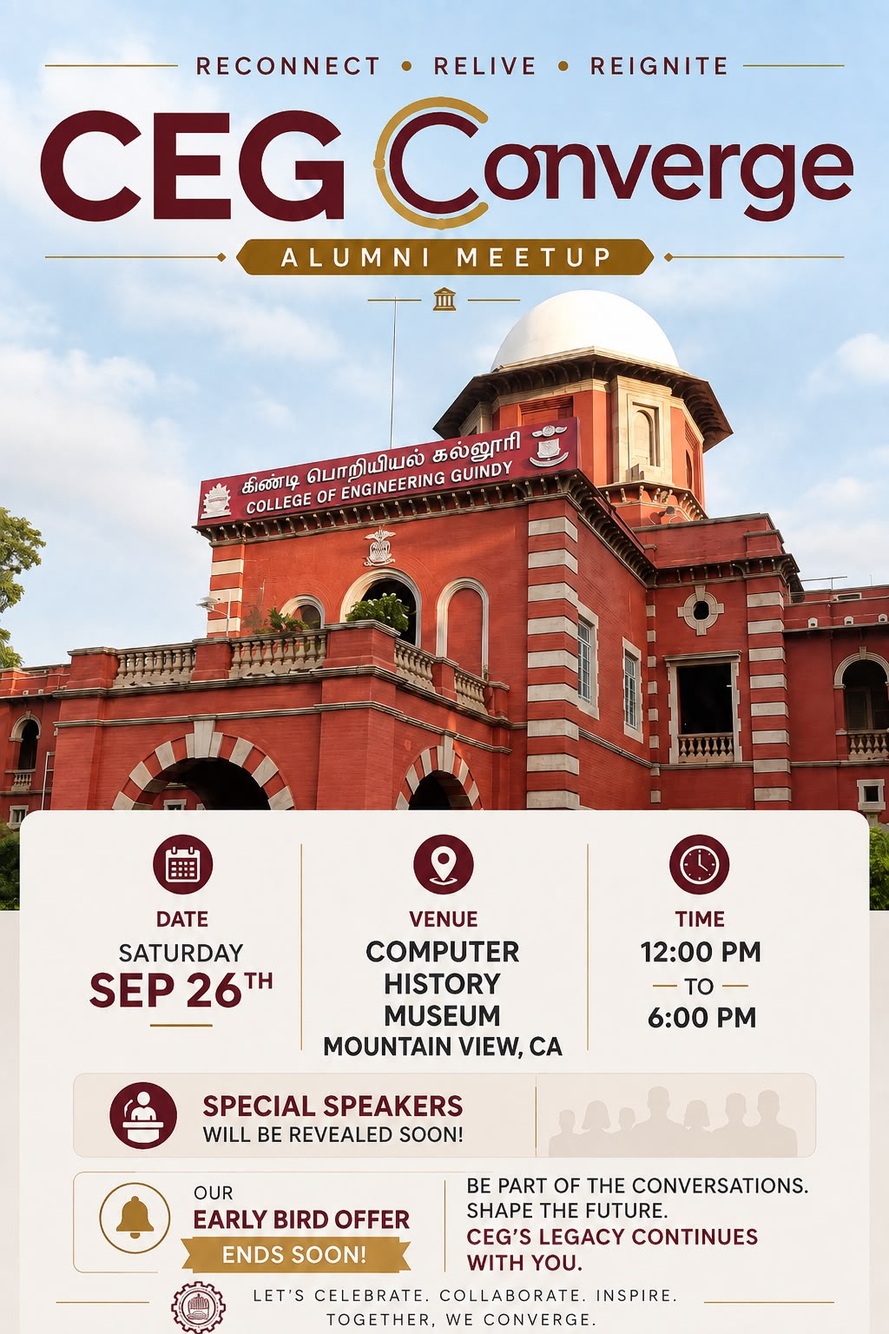
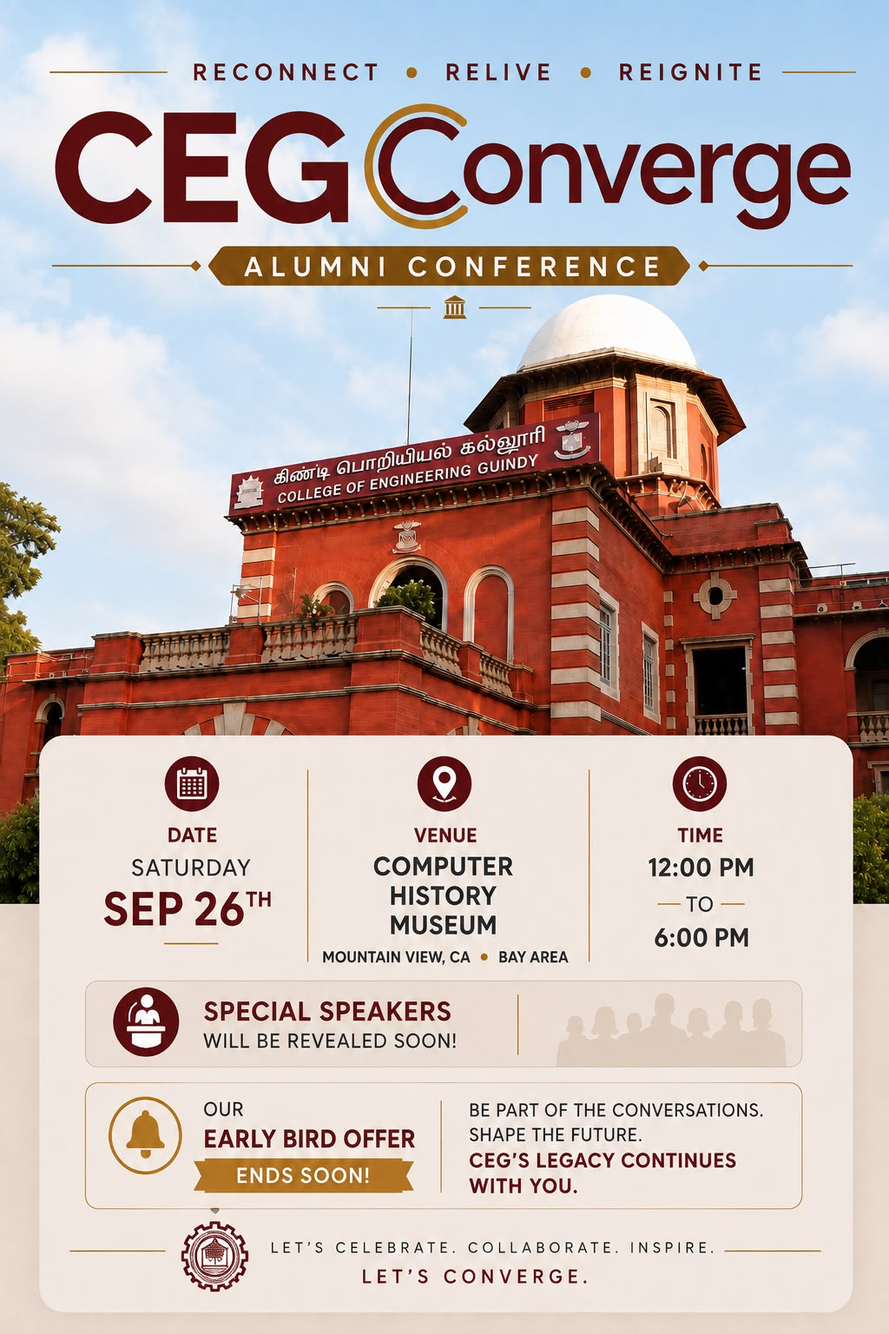
update panel event link; add hotels search link ; update the flyer

diff --git a/assets/event-helpers-D6YRZGUh.css b/assets/event-helpers-D6YRZGUh.css
@@ -1,0 +1,1 @@
+:root{--converge-hero-bg:linear-gradient(135deg, #0f172a 0%, #1e293b 100%);--converge-primary:var(--primary-color,#c0311b);--converge-navy:var(--secondary-color,#083b60);--converge-gold:var(--accent,#ffe34b);--converge-card-bg:#fffffffa;--converge-text-dark:#1e293b;--converge-text-muted:#64748b}.lf-header{background-color:var(--converge-navy);border-bottom:5px solid var(--converge-primary);color:#fff;padding:1.2rem 2rem}.lf-nav-container{justify-content:space-between;align-items:center;max-width:1100px;margin:0 auto;display:flex}.lf-brand-logo{color:#fff;align-items:center;gap:14px;font-family:Outfit,Segoe UI,sans-serif;font-size:1.6rem;font-weight:700;text-decoration:none;display:flex}.lf-brand-logo img{background:#fff;border-radius:8px;width:52px;height:52px;padding:2px}.lf-nav-links{gap:20px;margin:0;padding:0;list-style:none;display:flex}.lf-nav-links a{color:#ffffffe6;font-size:.95rem;font-weight:500;text-decoration:none;transition:color .2s}.lf-nav-links a:hover{color:var(--converge-gold)}.hero-banner{background:var(--converge-hero-bg);color:#fff;text-align:center;padding:2.5rem 1.5rem 4rem;position:relative;overflow:hidden}.hero-banner:before{content:"";pointer-events:none;background:radial-gradient(circle,#c0311b26 0%,#0000 60%);width:200%;height:200%;position:absolute;top:-50%;left:-50%}.hero-content{z-index:2;max-width:860px;margin:0 auto;position:relative}.event-badge-inline{color:var(--converge-navy);letter-spacing:.4px;text-transform:uppercase;background:#124e781a;border:1px solid #124e7833;border-radius:50px;margin-bottom:1rem;padding:5px 14px;font-size:.85rem;font-weight:600;display:inline-block}.narrative-lead{color:var(--converge-navy);margin-bottom:.8rem;font-family:Outfit,sans-serif;font-size:1.12rem;font-weight:600;line-height:1.4}html{scroll-behavior:smooth}.hero-title{letter-spacing:-.5px;white-space:nowrap;background:linear-gradient(135deg,#fff 0%,#e2e8f0 100%);-webkit-text-fill-color:transparent;-webkit-background-clip:text;margin:0 0 .5rem;font-family:Outfit,system-ui,sans-serif;font-size:clamp(1.4rem,5.8vw,3rem);font-weight:800;line-height:1.15}.hero-register-jump-btn{color:#fff;background:linear-gradient(135deg,#059669 0%,#047857 100%);border-radius:30px;align-items:center;gap:6px;margin-top:.2rem;padding:6px 16px;font-family:Outfit,sans-serif;font-size:.85rem;font-weight:700;text-decoration:none;transition:all .2s;display:inline-flex;box-shadow:0 3px 10px #05966966}.hero-register-jump-btn:hover{transform:translateY(-2px);box-shadow:0 6px 16px #0596698c}.hero-subtitle{color:#94a3b8;max-width:720px;margin:0 auto 2rem;font-size:1.25rem;font-weight:400}.converge-container{z-index:10;max-width:1040px;margin:-3rem auto 4rem;padding:0 1.5rem;position:relative}.content-grid{grid-template-columns:1fr;gap:2rem;display:grid}@media (width>=900px){.content-grid{grid-template-columns:1fr 1fr}}.card{background:var(--converge-card-bg);border:1px solid #e2e8f0;border-radius:16px;padding:1.6rem 1.8rem;box-shadow:0 10px 30px -5px #00000014,0 4px 12px -2px #0000000a}.card-header{border-bottom:2px solid #f1f5f9;align-items:center;gap:12px;margin-bottom:1rem;padding-bottom:.75rem;display:flex}.card-icon{color:var(--converge-navy);background:#124e781a;border-radius:10px;justify-content:center;align-items:center;width:40px;height:40px;font-size:1.3rem;display:flex}.card-title{color:var(--converge-navy);margin:0;font-family:Outfit,sans-serif;font-size:1.35rem;font-weight:700}.narrative-text{color:#334155;margin-bottom:1rem;font-size:.98rem;line-height:1.6}.why-join-title{color:var(--converge-navy);margin:1.2rem 0 .8rem;font-family:Outfit,sans-serif;font-size:1.1rem;font-weight:700}.intro-feature-list{flex-direction:column;gap:10px;margin-bottom:1.2rem;display:flex}.intro-feature-item{background:#f8fafc;border:1px solid #f1f5f9;border-radius:10px;align-items:flex-start;gap:12px;padding:.85rem 1rem;transition:background-color .2s;display:flex}.intro-feature-item:hover{background:#f1f5f9}.intro-feature-icon{background:#083b6014;border-radius:8px;flex-shrink:0;justify-content:center;align-items:center;width:36px;height:36px;font-size:1.2rem;display:flex}.intro-feature-text{color:#334155;font-size:.9rem;line-height:1.45}.intro-feature-text strong{color:var(--converge-navy);margin-bottom:2px;display:block}.historic-callout{background:linear-gradient(135deg,#fef3c7 0%,#fffbeb 100%);border:1px solid #fde68a;border-left:4px solid #d97706;border-radius:10px;margin-top:.8rem;padding:1rem 1.15rem}.historic-callout-title{color:#78350f;align-items:center;gap:6px;margin-bottom:4px;font-family:Outfit,sans-serif;font-size:.98rem;font-weight:700;display:flex}.historic-callout-body{color:#92400e;font-size:.88rem;line-height:1.5}.timeline{flex-direction:column;gap:1rem;display:flex}.timeline-item{align-items:flex-start;gap:14px;display:flex}.time-badge{color:var(--converge-primary);white-space:nowrap;text-align:center;background:#c0311b1a;border-radius:8px;min-width:130px;padding:6px 12px;font-size:.85rem;font-weight:700}.event-details strong{color:var(--converge-text-dark);font-size:.98rem;display:block}.event-details span{color:var(--converge-text-muted);font-size:.88rem}.venue-box{background:#faf5ff;border:1px solid #e9d5ff;border-radius:12px;margin-top:1.2rem;padding:1.1rem}.venue-name{color:#6b21a8;margin-bottom:4px;font-size:1.02rem;font-weight:700}.map-btn{color:#7e22ce;align-items:center;gap:6px;margin-top:6px;font-size:.88rem;font-weight:600;text-decoration:none;transition:color .2s;display:inline-flex}.map-btn:hover{color:#581c87;text-decoration:underline}.map-btn-solid{background-color:var(--converge-navy,#083b60);border-radius:10px;justify-content:center;align-items:center;gap:8px;padding:.65rem 1.3rem;font-size:.9rem;font-weight:600;text-decoration:none;transition:all .2s;display:inline-flex;box-shadow:0 2px 6px #00000014;color:#fff!important}.map-btn-solid:hover{background-color:#0a4b7c;text-decoration:none;transform:translateY(-1px);box-shadow:0 4px 10px #0000001f;color:#fff!important}.speakers-list{flex-direction:column;gap:12px;margin-top:.8rem;display:flex}.speaker-card{background:#f8fafc;border:1px solid #e2e8f0;border-radius:10px;align-items:center;gap:14px;padding:10px 14px;display:flex}.speaker-avatar{background:var(--converge-navy);color:#fff;border-radius:50%;flex-shrink:0;justify-content:center;align-items:center;width:42px;height:42px;font-size:1.05rem;font-weight:700;display:flex}.speaker-info strong{color:var(--converge-text-dark);font-size:.95rem;display:block}.speaker-info span{color:var(--converge-text-muted);font-size:.85rem}.payment-card{border:2px solid var(--converge-primary);text-align:center;background:#fff;padding:1.4rem 1.6rem;box-shadow:0 12px 35px -8px #c0311b26}.pricing-callout{background:#fef2f2;border-radius:12px;margin-bottom:1rem;padding:1rem}.amount-tag{color:var(--converge-primary);margin-bottom:2px;font-family:Outfit,sans-serif;font-size:2rem;font-weight:800}.amount-desc{color:#991b1b;font-size:.88rem;font-weight:500}.stripe-buy-wrapper{justify-content:center;margin:.6rem 0;display:flex}.fallback-btn{box-sizing:border-box;background-color:var(--converge-primary);color:#fff;border-radius:10px;width:100%;margin-top:6px;padding:12px 20px;font-family:Outfit,sans-serif;font-size:1rem;font-weight:700;text-decoration:none;transition:all .2s ease-in-out;display:inline-block;box-shadow:0 4px 12px #c0311b40}.fallback-btn:hover{background-color:#a02613;transform:translateY(-1px);box-shadow:0 6px 16px #c0311b59}.tax-note{color:var(--converge-text-muted);border-top:1px solid #f1f5f9;margin-top:.8rem;padding-top:.6rem;font-size:.82rem;line-height:1.4}.lf-footer{background-color:var(--converge-navy);color:#94a3b8;text-align:center;border-top:1px solid #ffffff1a;padding:2.5rem 1rem;font-size:.9rem}.lf-footer a{color:#fff;text-decoration:none}.catalog-grid{flex-direction:column;gap:1.2rem;margin:1.2rem 0;display:flex}.type-card-block{background:#fff;border:1px solid #e2e8f0;border-radius:14px;padding:1.2rem 1.4rem;transition:all .2s;box-shadow:0 4px 14px #00000008}.type-card-block:hover{box-shadow:0 8px 24px #0000000f}.type-card-header{border-bottom:1px solid #f1f5f9;align-items:flex-start;gap:14px;padding-bottom:.85rem;display:flex}.type-icon-badge{width:44px;height:44px;color:var(--converge-navy);background:#124e7814;border-radius:12px;flex-shrink:0;justify-content:center;align-items:center;font-size:1.4rem;display:flex}.type-header-content{flex-direction:column;flex:1;gap:2px;display:flex}.type-title-line{flex-wrap:wrap;align-items:center;gap:10px;display:flex}.type-title{color:var(--converge-navy);margin:0;font-family:Outfit,sans-serif;font-size:1.15rem;font-weight:700;line-height:1.2}.type-count-badge{color:var(--converge-navy);letter-spacing:.02em;white-space:nowrap;text-transform:uppercase;background:#124e7814;border-radius:20px;padding:3px 10px;font-size:.72rem;font-weight:700}.type-description{color:var(--converge-text-muted);margin:2px 0 0;font-size:.88rem;line-height:1.4}.type-options-list{flex-direction:column;gap:10px;margin-top:1rem;display:flex}.option-row{border-radius:10px;flex-wrap:wrap;justify-content:space-between;align-items:center;gap:10px 14px;padding:.75rem 1rem;transition:all .2s;display:flex}.option-row.option-early-bird{background:linear-gradient(135deg,#ecfdf5 0%,#d1fae5 100%);border:1px solid #a7f3d0;border-left:5px solid #059669}.option-row.option-early-bird:hover{border-color:#059669;transform:translateY(-1px);box-shadow:0 4px 14px #0596692e}.option-row.option-regular{background:#f8fafc;border:1px solid #e2e8f0;border-left:5px solid #083b60}.option-row.option-regular:hover{background:#f1f5f9;border-color:#083b60;transform:translateY(-1px);box-shadow:0 4px 12px #083b601f}.option-title-group{flex-direction:column;flex:160px;gap:4px;min-width:0;display:flex}.option-label{color:var(--converge-navy);font-family:Outfit,sans-serif;font-size:.94rem;font-weight:700;line-height:1.25}.option-early-bird .option-label{color:#065f46}.option-regular .option-label{color:#083b60}.option-badges{flex-wrap:wrap;align-items:center;gap:6px;display:flex}.option-savings-tag{color:#fff;letter-spacing:.01em;white-space:nowrap;background:#059669;border-radius:6px;padding:2px 7px;font-size:.65rem;font-weight:800;box-shadow:0 2px 4px #05966933}.option-expiry-tag{color:#fff;letter-spacing:.01em;white-space:nowrap;background:#d97706;border-radius:6px;padding:2px 7px;font-size:.65rem;font-weight:800;box-shadow:0 2px 4px #d9770633}.option-action-group{flex-shrink:0;align-items:center;gap:12px;margin-left:auto;display:flex}.option-price{color:var(--converge-primary);font-family:Outfit,sans-serif;font-size:1.3rem;font-weight:800;line-height:1}.option-early-bird .option-price{color:#047857}.option-regular .option-price{color:#083b60}.option-btn{color:#fff;white-space:nowrap;background-color:#083b60;border-radius:8px;align-items:center;gap:4px;padding:6px 14px;font-family:Outfit,sans-serif;font-size:.85rem;font-weight:600;text-decoration:none;transition:all .2s;display:inline-flex;box-shadow:0 2px 6px #083b6033}.option-btn:hover{background-color:#0b4e7f;transform:translateY(-1px)}.option-btn.btn-eb{background:linear-gradient(135deg,#059669 0%,#047857 100%);box-shadow:0 2px 8px #0596694d}.option-btn.btn-eb:hover{background:linear-gradient(135deg,#047857 0%,#065f46 100%);box-shadow:0 4px 12px #05966973}.tier-card{background:#fff;border:1px solid #e2e8f0;border-radius:14px;align-items:center;gap:16px;padding:1.1rem 1.3rem;transition:all .25s cubic-bezier(.16,1,.3,1);display:flex;position:relative;overflow:hidden;box-shadow:0 2px 6px #00000005}.tier-card:hover{border-color:#124e784d;transform:translateY(-2px);box-shadow:0 8px 24px #124e7814}.tier-card.tier-early_bird,.tier-card.tier-highlight{background:linear-gradient(135deg,#fffdf5 0%,#fff 100%);border:1.5px solid #f59e0b;box-shadow:0 4px 14px #f59e0b1f}.tier-card.tier-early_bird:hover{border-color:#d97706;transform:translateY(-2px);box-shadow:0 10px 28px #f59e0b38}.tier-icon-wrapper{background:#f1f5f9;border-radius:10px;flex-shrink:0;justify-content:center;align-items:center;width:48px;height:48px;display:flex;position:relative;overflow:hidden}.tier-thumb{object-fit:cover;border-radius:10px;width:100%;height:100%}.tier-fallback-icon{background:linear-gradient(135deg,#f8fafc 0%,#e2e8f0 100%);border-radius:10px;justify-content:center;align-items:center;width:100%;height:100%;font-size:1.4rem;display:flex}.tier-info{text-align:left;flex-direction:column;flex:1;gap:3px;min-width:0;display:flex}.tier-header{flex-wrap:wrap;align-items:center;gap:8px;display:flex}.tier-sub-header{align-items:center;gap:6px;margin:2px 0 1px;display:flex}.tier-title{color:var(--converge-navy);font-family:Outfit,sans-serif;font-size:1.05rem;font-weight:700;line-height:1.25}.tier-cat-pill{letter-spacing:.04em;text-transform:uppercase;border-radius:12px;padding:2px 8px;font-size:.65rem;font-weight:800}.cat-amber{color:#92400e;background:#fef3c7;border:1px solid #fde68a}.cat-blue{color:#0369a1;background:#e0f2fe;border:1px solid #bae6fd}.cat-purple{color:#7e22ce;background:#f3e8ff;border:1px solid #e9d5ff}.cat-emerald{color:#047857;background:#d1fae5;border:1px solid #a7f3d0}.tier-savings-pill{color:#fff;background:#10b981;border-radius:12px;padding:2px 8px;font-size:.68rem;font-weight:800;box-shadow:0 2px 4px #10b98140}.tier-badge{letter-spacing:.02em;white-space:nowrap;border-radius:20px;padding:3px 10px;font-size:.72rem;font-weight:700}.badge-amber{color:#92400e;background:#f59e0b1f}.badge-blue{color:#0369a1;background:#0369a11a}.badge-purple{color:#7e22ce;background:#7e22ce1a}.badge-emerald{color:#047857;background:#0478571a}.tier-desc{color:var(--converge-text-muted);font-size:.85rem;line-height:1.35}.tier-action{flex-direction:column;flex-shrink:0;align-items:flex-end;gap:6px;display:flex}.tier-price{color:var(--converge-primary);font-family:Outfit,sans-serif;font-size:1.45rem;font-weight:800;line-height:1}.tier-btn{background-color:var(--converge-primary);color:#fff;white-space:nowrap;border-radius:8px;align-items:center;gap:4px;padding:8px 18px;font-family:Outfit,sans-serif;font-size:.88rem;font-weight:600;text-decoration:none;transition:all .2s;display:inline-flex;box-shadow:0 2px 6px #c0311b33}.tier-btn:hover{background-color:#a02613;transform:translateY(-1px);box-shadow:0 4px 12px #c0311b59}.tier-btn.btn-early-bird{background:linear-gradient(135deg,#d97706 0%,#c0311b 100%);box-shadow:0 3px 10px #d9770659}.tier-btn.btn-early-bird:hover{background:linear-gradient(135deg,#b45309 0%,#a02613 100%);box-shadow:0 5px 14px #d9770673}.tier-thumb{object-fit:cover;border:1px solid #e2e8f0;border-radius:8px;flex-shrink:0;width:52px;height:52px}@media (width<=600px){.tier-card{flex-direction:column;align-items:flex-start}.tier-action{border-top:1px dashed #e2e8f0;flex-direction:row;justify-content:space-between;align-items:center;width:100%;margin-top:8px;padding-top:8px}}@media (width<=640px){.lf-header{padding:.45rem .75rem}.lf-brand-logo{gap:6px;font-size:1.1rem}.lf-brand-logo img{width:26px;height:26px}.lf-nav-links{gap:4px}.lf-nav-links a{padding:2px 5px;font-size:.75rem}.hero-banner{padding:.8rem .65rem 2.2rem}.converge-container{margin-top:-1.6rem;padding:0 .45rem}.card{border-radius:12px;padding:.85rem .6rem}.card-header{margin-bottom:.4rem;padding-bottom:.4rem}.card-title{font-size:1.15rem}.event-badge-inline{margin-bottom:.4rem;padding:3px 10px;font-size:.76rem}.event-poster-container{text-align:center;margin:.2rem 0}.event-poster-container img{object-fit:contain;width:auto;max-width:100%;max-height:400px}.narrative-text{margin-bottom:.5rem;font-size:.88rem;line-height:1.45}.why-join-title{margin:.8rem 0 .5rem;font-size:1.02rem}.card.payment-card{padding:.85rem .5rem}.type-card-block{border-radius:10px;padding:.8rem .6rem}.type-card-header{gap:10px;padding-bottom:.6rem}.type-icon-badge{width:36px;height:36px;font-size:1.15rem}.option-row{border-radius:8px;padding:.65rem .55rem}.option-title-group{flex:140px}.option-label{font-size:.88rem}.option-price{font-size:1.15rem}.option-btn{padding:5px 11px;font-size:.8rem}}.thank-you-container{text-align:center;max-width:640px;margin:1rem auto 1.5rem;padding:0 .8rem}.thank-you-card{background:#fff;border:1px solid #e2e8f0;border-radius:16px;padding:1.4rem 1.1rem;box-shadow:0 10px 25px -5px #00000014}.check-icon{color:#0e9f6e;background:#def7ec;border-radius:50%;justify-content:center;align-items:center;width:48px;height:48px;margin:0 auto .4rem;font-size:1.7rem;display:flex}.thank-you-card h1{color:var(--converge-navy);margin-bottom:.4rem;font-family:Outfit,sans-serif;font-size:1.6rem;line-height:1.25}.sub-text,.summary-card,.action-card-title,.action-btn,.home-btn,.toast-msg{font-size:.95rem}.sub-text{color:#475569;margin-bottom:1rem;line-height:1.4}.summary-card{text-align:left;background:#f8fafc;border:1px solid #e2e8f0;border-radius:10px;margin-bottom:1rem;padding:.9rem 1rem}.summary-row{color:#334155;margin-bottom:6px;line-height:1.45}.summary-row:last-child{margin-bottom:0}.map-link{color:#7e22ce;margin-left:4px;font-weight:600;text-decoration:none}.map-link:hover{text-decoration:underline}.actions-wrapper{grid-template-columns:repeat(auto-fit,minmax(260px,1fr));gap:.8rem;margin-top:.8rem;display:grid}.action-card{text-align:left;background:#f8fafc;border:1px solid #e2e8f0;border-radius:10px;padding:.9rem}.action-card-title{color:var(--converge-navy);align-items:center;gap:6px;margin-bottom:.6rem;font-family:Outfit,sans-serif;font-weight:700;display:flex}.action-grid{grid-template-columns:1fr 1fr;gap:6px;display:grid}.action-btn{cursor:pointer;box-sizing:border-box;border:none;border-radius:6px;justify-content:center;align-items:center;gap:5px;width:100%;padding:9px 10px;font-family:Outfit,sans-serif;font-weight:600;text-decoration:none;transition:all .15s;display:inline-flex}.btn-google{background-color:var(--converge-navy);color:#fff}.btn-google:hover{background-color:#0d3756}.btn-ical{color:#fff;background-color:#334155}.btn-ical:hover{background-color:#1e293b}.btn-wa{color:#fff;background-color:#25d366}.btn-wa:hover{background-color:#1da851}.btn-share{color:#fff;background-color:#028090}.btn-share:hover{background-color:#01626e}.home-btn{color:var(--converge-navy);border-radius:6px;margin-top:.8rem;padding:8px 16px;font-weight:600;text-decoration:none;transition:background .2s;display:inline-block}.home-btn:hover{background:#f1f5f9}.toast-msg{color:#fff;background:#1e293b;border-radius:6px;margin-top:6px;padding:6px 12px;font-weight:500;display:none}

diff --git a/converge/2026/index.html b/converge/2026/index.html
@@ -36,9 +36,9 @@
     <link
         href="https://fonts.googleapis.com/css2?family=Inter:wght@400;500;600;700&family=Outfit:wght@500;600;700;800&display=swap"
         rel="stylesheet">
-  <script type="module" crossorigin src="/assets/converge_2026_index-CL2KqT4a.js"></script>
-  <link rel="modulepreload" crossorigin href="/assets/event-helpers-BpSuUEgc.js">
-  <link rel="stylesheet" crossorigin href="/assets/event-helpers-BOJzvE8h.css">
+  <script type="module" crossorigin src="/assets/converge_2026_index-M0vaZrlx.js"></script>
+  <link rel="modulepreload" crossorigin href="/assets/event-helpers-2DwBrOiY.js">
+  <link rel="stylesheet" crossorigin href="/assets/event-helpers-D6YRZGUh.css">
   <link rel="stylesheet" crossorigin href="/assets/styles-B4fQrhEg.css">
     <!-- Google tag (gtag.js) -->
     <script async src="https://www.googletagmanager.com/gtag/js?id=G-DGHKYLW1CN"></script>
@@ -162,18 +162,39 @@
             <!-- Card 3: Venue -->
             <div class="card">
                 <div class="card-header">
-                    <div class="card-icon">�</div>
+                    <div class="card-icon">📍</div>
                     <h2 class="card-title">Venue</h2>
                 </div>
                 <!-- Venue Location Box -->
                 <div class="venue-box">
-                    <div class="venue-name"> Computer History Museum</div>
+                    <div class="venue-name">Computer History Museum</div>
                     <div style="font-size: 0.92rem; color: #4C1D95;">1401 N Shoreline Blvd, Mountain View, CA 94043
                     </div>
-                    <a href="https://maps.google.com/?q=Computer+History+Museum+Mountain+View+CA" target="_blank"
-                        rel="noopener noreferrer" class="map-btn">
-                        Open in Google Maps &rarr;
-                    </a>
+                    <div style="margin-top: 12px; text-align: center;">
+                        <a href="https://maps.google.com/?q=Computer+History+Museum+Mountain+View+CA" target="_blank"
+                            rel="noopener noreferrer" class="map-btn">
+                            Open in Google Maps &rarr;
+                        </a>
+                    </div>
+                </div>
+            </div>
+
+            <!-- Card 4: Accommodations -->
+            <div class="card">
+                <div class="card-header">
+                    <div class="card-icon">🏨</div>
+                    <h2 class="card-title">Accommodations</h2>
+                </div>
+                <!-- Accommodations Box -->
+                <div class="venue-box" style="background: #F8FAFC; border-color: #CBD5E1; padding: 1.2rem;">
+                    <div class="venue-name" style="font-size: 1.02rem; color: #1E293B; margin-bottom: 4px;">Traveling to
+                        Mountain View? <span style="font-size: 0.88rem;">Nearby hotels</span></div>
+                    <div style="text-align: center;">
+                        <a href="https://www.google.com/travel/hotels/Mountain+View,+CA?q=Hotels+near+Computer+History+Museum,+Mountain+View,+CA&tcfs=EhoaGAoKMjAyNi0wOS0yNRIKMjAyNi0wOS0yN1AB"
+                            target="_blank" rel="noopener noreferrer" class="map-btn-solid">
+                            🏨 Find Nearby Hotels (Sep 25 – 27) &rarr;
+                        </a>
+                    </div>
                 </div>
             </div>
 

diff --git a/converge/2026/lf/thank-you.html b/converge/2026/lf/thank-you.html
@@ -30,9 +30,9 @@
     <link
         href="https://fonts.googleapis.com/css2?family=Inter:wght@400;500;600;700&family=Outfit:wght@500;600;700;800&display=swap"
         rel="stylesheet">
-  <script type="module" crossorigin src="/assets/converge_2026_lf_thank-you-xlROGNEI.js"></script>
-  <link rel="modulepreload" crossorigin href="/assets/event-helpers-BpSuUEgc.js">
-  <link rel="stylesheet" crossorigin href="/assets/event-helpers-BOJzvE8h.css">
+  <script type="module" crossorigin src="/assets/converge_2026_lf_thank-you-c2veHUop.js"></script>
+  <link rel="modulepreload" crossorigin href="/assets/event-helpers-2DwBrOiY.js">
+  <link rel="stylesheet" crossorigin href="/assets/event-helpers-D6YRZGUh.css">
   <link rel="stylesheet" crossorigin href="/assets/styles-B4fQrhEg.css">
     <!-- Google tag (gtag.js) -->
     <script async src="https://www.googletagmanager.com/gtag/js?id=G-DGHKYLW1CN"></script>

diff --git a/converge/2026/thank-you.html b/converge/2026/thank-you.html
@@ -30,9 +30,9 @@
     <link
         href="https://fonts.googleapis.com/css2?family=Inter:wght@400;500;600;700&family=Outfit:wght@500;600;700;800&display=swap"
         rel="stylesheet">
-  <script type="module" crossorigin src="/assets/converge_2026_thank-you-BZZQPX05.js"></script>
-  <link rel="modulepreload" crossorigin href="/assets/event-helpers-BpSuUEgc.js">
-  <link rel="stylesheet" crossorigin href="/assets/event-helpers-BOJzvE8h.css">
+  <script type="module" crossorigin src="/assets/converge_2026_thank-you-qirtPgih.js"></script>
+  <link rel="modulepreload" crossorigin href="/assets/event-helpers-2DwBrOiY.js">
+  <link rel="stylesheet" crossorigin href="/assets/event-helpers-D6YRZGUh.css">
   <link rel="stylesheet" crossorigin href="/assets/styles-B4fQrhEg.css">
     <!-- Google tag (gtag.js) -->
     <script async src="https://www.googletagmanager.com/gtag/js?id=G-DGHKYLW1CN"></script>

diff --git a/converge/2026/lf/index.html b/converge/2026/lf/index.html
@@ -33,8 +33,8 @@
     <link
         href="https://fonts.googleapis.com/css2?family=Inter:wght@400;500;600;700&family=Outfit:wght@500;600;700;800&display=swap"
         rel="stylesheet">
-  <script type="module" crossorigin src="/assets/event-helpers-BpSuUEgc.js"></script>
-  <link rel="stylesheet" crossorigin href="/assets/event-helpers-BOJzvE8h.css">
+  <script type="module" crossorigin src="/assets/event-helpers-2DwBrOiY.js"></script>
+  <link rel="stylesheet" crossorigin href="/assets/event-helpers-D6YRZGUh.css">
   <link rel="stylesheet" crossorigin href="/assets/styles-B4fQrhEg.css">
     <!-- Google tag (gtag.js) -->
     <script async src="https://www.googletagmanager.com/gtag/js?id=G-DGHKYLW1CN"></script>

diff --git a/assets/converge_2026_lf_thank-you-c2veHUop.js b/assets/converge_2026_lf_thank-you-c2veHUop.js
@@ -1,0 +1,1 @@
+/* empty css               */import{n as e}from"./event-helpers-2DwBrOiY.js";e(`actionsWrapper`,{title:`CEG Converge 2026: Leaders Forum`,dtStart:`20260926T160000Z`,dtEnd:`20260927T010000Z`,location:`Computer History Museum, 1401 N Shoreline Blvd, Mountain View, CA 94043`,description:`CEGAANA CEG Converge 2026 Leaders Forum at Computer History Museum, Mountain View, CA.`,icsFilename:`ceg-converge-2026-leaders-forum.ics`,shareUrl:`https://cegaana.org/converge/2026/lf`,shareText:`I am registered for CEG Converge 2026: Leaders Forum on Sept 26, 2026! Please join me at: https://cegaana.org/converge/2026/lf`,shareLabel:`Share with Other Leaders`});

diff --git a/assets/converge_2026_thank-you-qirtPgih.js b/assets/converge_2026_thank-you-qirtPgih.js
@@ -1,0 +1,1 @@
+/* empty css               */import{n as e}from"./event-helpers-2DwBrOiY.js";e(`actionsWrapper`,{title:`CEG Converge 2026`,dtStart:`20260926T190000Z`,dtEnd:`20260927T010000Z`,location:`Computer History Museum, 1401 N Shoreline Blvd, Mountain View, CA 94043`,description:`CEGAANA CEG Converge 2026 General Alumni Conference at Computer History Museum, Mountain View, CA.`,icsFilename:`ceg-converge-2026-general.ics`,shareUrl:`https://cegaana.org/converge/2026`,shareText:`I am attending CEG Converge 2026 on Sept 26, 2026! Please join me at: https://cegaana.org/converge/2026`,shareLabel:`Share with Other Alumni`});

diff --git a/assets/converge_2026_index-M0vaZrlx.js b/assets/converge_2026_index-M0vaZrlx.js
@@ -1,0 +1,1 @@
+/* empty css               */import{t as e}from"./event-helpers-2DwBrOiY.js";async function t(){try{let t=await fetch(`./catalog.json`);t.ok?e(`catalogGrid`,await t.json()):console.error(`Failed to load product catalog JSON:`,t.statusText)}catch(e){console.error(`Error fetching product catalog JSON:`,e)}}t();
